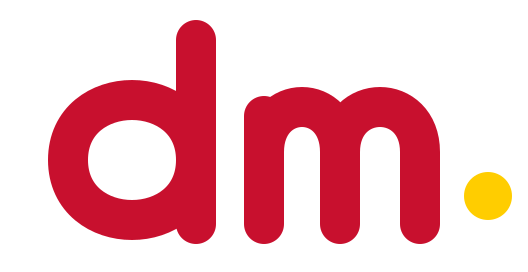
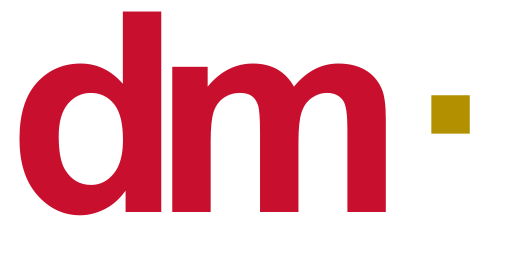
Restore original dm wordmark and keep student figures on detail pages

diff --git a/index.html b/index.html
@@ -1,7 +1,7 @@
 <!doctype html>
 <html lang="en"><head><meta charset="utf-8"><meta name="viewport" content="width=device-width,initial-scale=1"><title>Digital Mechanobiology Lab | University of Calgary</title><meta name="description" content="Imaging, computational modelling and machine learning for cancer–bone mechanobiology, spinal alignment and bone adaptation. Explore student research at the University of Calgary."><link rel="stylesheet" href="assets/site.css"><meta property="og:title" content="Digital Mechanobiology Lab"><meta property="og:description" content="Medical imaging, mechanics, and tissue response. University of Calgary · Radiology."><meta property="og:type" content="website"><link rel="icon" type="image/svg+xml" href="assets/brand/favicon.svg"><link rel="icon" type="image/png" sizes="32x32" href="assets/brand/favicon-32.png"><link rel="apple-touch-icon" sizes="180x180" href="assets/brand/apple-touch-icon.png"><meta name="theme-color" content="#c8102e"><meta property="og:image" content="https://wallematthias.github.io/digital-mechanobiology-lab/assets/brand/social-card.png"><meta name="twitter:card" content="summary_large_image"></head>
 <body><a class="skip-link" href="#main">Skip to content</a>
-<header><a class="brand" href="#home"><img class="brand-mark" src="assets/brand/dm-mark.svg" alt="" width="62" height="32" aria-hidden="true"><span>Digital Mechanobiology Lab<small>UNIVERSITY OF CALGARY · RADIOLOGY</small></span></a><nav aria-label="Main navigation"><a href="#research">Research</a><a href="#work">Software</a><a href="#publications">Publications</a><a href="#people">People</a><a href="#outreach">Outreach</a><a class="nav-join" href="#positions">Open Positions <span>↗</span></a></nav></header>
+<header><a class="brand" href="#home"><span class="mark" aria-hidden="true">dm<span>·</span></span><span>Digital Mechanobiology Lab<small>UNIVERSITY OF CALGARY · RADIOLOGY</small></span></a><nav aria-label="Main navigation"><a href="#research">Research</a><a href="#work">Software</a><a href="#publications">Publications</a><a href="#people">People</a><a href="#outreach">Outreach</a><a class="nav-join" href="#positions">Open Positions <span>↗</span></a></nav></header>
 <main id="main"><section class="hero" id="home">
 <div class="hero-copy"><p class="eyebrow"><span></span> DEPARTMENT OF RADIOLOGY · UNIVERSITY OF CALGARY</p><h1>Digital<br>Mechanobiology<br>Lab</h1><p class="lead">We combine medical imaging, computational modelling, and machine learning to study how mechanical forces shape tissue behaviour.</p><p class="sublead">Our work connects cancer–bone interactions, spinal alignment, and bone adaptation.</p><div class="actions"><a class="button red" href="#positions">Open Positions <span>↗</span></a><a class="text-link" href="#research">Explore the research ↓</a></div></div>
 <div class="hero-art"><div id="mech-field"><canvas aria-label="Interactive synthetic bone illustration, not a patient scan or solved finite element model. Move the pointer to deform the mesh; clicks accumulate strain signals and recruit cells."></canvas></div></div></section>
@@ -9,7 +9,7 @@
 <section class="section" id="research"><div class="section-heading"><p class="eyebrow">RESEARCH</p><h2>Research areas</h2><p>We study how the mechanical environment influences tissue behaviour, combining medical imaging with computational models in oncology, spinal alignment, and bone adaptation.</p></div><div class="research-grid"><article><span class="number">01</span><div class="mini-art tumor" aria-hidden="true"></div><h3><a href="research/01-cancer-bone.html">Cancer–Bone Mechanobiology</a></h3><p>Investigating how bone metastases and the mechanical environment influence one another, and how to quantify treatment response.</p><span class="tag">BONE METASTASES · ONGOING RESEARCH</span><a class="text-link card-more" href="research/01-cancer-bone.html">Research & projects ↗</a></article><article><span class="number">02</span><div class="mini-art model" aria-hidden="true"></div><h3><a href="research/02-spinal-alignment.html">Spinal Alignment &amp; Mechanobiology</a></h3><p>Studying how spinal alignment changes loading, and how those mechanical conditions relate to degeneration and tissue adaptation.</p><span class="tag">ALIGNMENT · LOADING · DEGENERATION</span><a class="text-link card-more" href="research/02-spinal-alignment.html">Research & projects ↗</a></article><article><span class="number">03</span><div class="mini-art bone" aria-hidden="true"></div><h3><a href="research/03-bone-adaptation.html">Bone Adaptation &amp; Remodelling</a></h3><p>Mapping local bone formation and resorption over time, and relating these changes to the mechanical environment.</p><span class="tag">HR-pQCT · MICRO-CT · MECHANOREGULATION</span><a class="text-link card-more" href="research/03-bone-adaptation.html">Research & projects ↗</a></article></div><div class="methods-note"><span class="eyebrow">METHODS</span><p>Medical imaging · CT, MRI, HR-pQCT and micro-CT · Finite element modelling · Machine learning and deep learning · Longitudinal analysis</p></div></section>
 <section class="section positions-section" id="positions">
 <div class="section-heading"><p class="eyebrow">JOIN THE LAB</p><h2>Open Positions</h2></div>
-<div class="project-grid opportunity-grid"><article class="project-card illustrated student-illustrated "><figure class="project-figure"><a href="assets/research/bone-metastasis-workflow.png"><img src="assets/research/bone-metastasis-workflow.png" alt="Longitudinal bone-metastasis CT workflow: baseline and follow-up scans, deep-learning segmentation, anatomy-constrained registration, deformation field, and density change." loading="lazy"></a></figure><div class="project-copy"><p class="eyebrow">Cancer–Bone Mechanobiology</p><h3><a href="opportunities/01-cancer-imaging.html">Imaging and mechanobiology of bone metastases ↗</a></h3><p>Develop imaging-based measures of treatment response and investigate how the mechanical environment relates to metastatic growth.</p><div class="skill-tags"><span>Deep learning</span><span>Radiomics</span><span>Finite element modelling</span><span>Clinical imaging</span></div><div class="project-status">MSc / PhD<br><strong>Research direction · Enquire</strong></div></div></article><article class="project-card "><div class="project-copy"><p class="eyebrow">Spinal Alignment &amp; Mechanobiology</p><h3><a href="opportunities/02-spine-learning.html">Spinal alignment, degeneration and mechanobiology ↗</a></h3><p>Combine CT, MRI and radiographs to study how spinal alignment, loading and tissue degeneration change together over time.</p><div class="skill-tags"><span>Multimodal imaging</span><span>Deep learning</span><span>Biomechanics</span><span>Longitudinal analysis</span></div><div class="project-status">MSc / PhD<br><strong>Research direction · Enquire</strong></div></div></article></div>
+<div class="project-grid opportunity-grid"><article class="project-card "><div class="project-copy"><p class="eyebrow">Cancer–Bone Mechanobiology</p><h3><a href="opportunities/01-cancer-imaging.html">Imaging and mechanobiology of bone metastases ↗</a></h3><p>Develop imaging-based measures of treatment response and investigate how the mechanical environment relates to metastatic growth.</p><div class="skill-tags"><span>Deep learning</span><span>Radiomics</span><span>Finite element modelling</span><span>Clinical imaging</span></div><div class="project-status">MSc / PhD<br><strong>Research direction · Enquire</strong></div></div></article><article class="project-card "><div class="project-copy"><p class="eyebrow">Spinal Alignment &amp; Mechanobiology</p><h3><a href="opportunities/02-spine-learning.html">Spinal alignment, degeneration and mechanobiology ↗</a></h3><p>Combine CT, MRI and radiographs to study how spinal alignment, loading and tissue degeneration change together over time.</p><div class="skill-tags"><span>Multimodal imaging</span><span>Deep learning</span><span>Biomechanics</span><span>Longitudinal analysis</span></div><div class="project-status">MSc / PhD<br><strong>Research direction · Enquire</strong></div></div></article></div>
 <div class="application-guidance">
 <div><div class="student-profile"><h3>Desired student profile</h3><p>You are curious about how tissues respond to mechanical conditions, enjoy quantitative work, and want to connect methods with biological or clinical questions.</p><p>Engineering, computer science, physics, biomedical sciences, and related backgrounds are welcome. Coding or image-analysis experience is useful, but you do not need to know every method already. I value careful work, initiative, and clear communication.</p></div><div class="application-how"><h3>How to apply</h3><p>Email a short introduction, CV, intended degree or placement, available dates, and the project you are interested in. Include a relevant project or code link if you have one.</p><a class="button red" href="mailto:matthias.walle@ucalgary.ca?subject=Student%20research%20enquiry">Email Matthias <span>↗</span></a></div></div>
 <div class="pathways"><div><h3>Graduate students</h3><p>MSc and PhD applicants from Canada and internationally are welcome. Get in touch to discuss your research interests, the relevant programme, supervision, funding, and application process.</p><a class="text-link" href="https://grad.ucalgary.ca/future-students">UCalgary graduate admissions ↗</a></div><div><h3>Undergraduate students</h3><p>We welcome enquiries about honours theses, summer research, co-op placements, and research projects for course credit. Share your interests, available dates, and any requirements from your programme.</p></div><div><h3>Visiting students</h3><p>I am happy to supervise thesis projects from international BSc and MSc students and have experience supervising students across Europe and Asia. Research stays are also welcome.</p><p>Please get in touch well in advance of your intended visit to allow enough time for visa arrangements and the visiting-student process.</p></div></div>

diff --git a/assets/site.css b/assets/site.css
@@ -1,5 +1,5 @@
 @import url('https://fonts.googleapis.com/css2?family=DM+Sans:wght@400;500;600;700&family=Manrope:wght@400;500;600;700;800&display=swap');
-.brand-mark{display:block;width:62px;height:32px;flex-shrink:0}.opportunity-grid .project-card:not(.illustrated){padding:0}.student-illustrated .project-figure{background:#000}.student-illustrated .project-figure>a{padding:10px}.student-illustrated .project-figure img{height:auto;aspect-ratio:2.6;object-fit:contain}
+.opportunity-grid .project-card:not(.illustrated){padding:0}
 :root{--red:#c8102e;--gold:#ffcd00;--ink:#262626;--muted:#686562;--paper:#fbfaf7;--line:#e4dfd7}*{box-sizing:border-box}html{scroll-behavior:smooth;scroll-padding-top:100px}body{margin:0;background:var(--paper);color:var(--ink);font-family:'DM Sans',sans-serif}a{color:inherit;text-decoration:none}header{max-width:1440px;margin:auto;display:flex;justify-content:space-between;align-items:center;gap:30px;padding:26px 5%;border-bottom:1px solid var(--line)}.brand{display:flex;gap:15px;align-items:center;font-weight:700;font-size:15px}.brand small{display:block;font-size:9px;letter-spacing:1.6px;margin-top:6px;color:var(--muted)}.mark{font-size:35px;letter-spacing:-3px;color:var(--red)}.mark span{color:#b29000}nav{display:flex;gap:30px;font-size:13px;align-items:center}nav a:hover,.text-link:hover{color:var(--red)}.nav-join{border-bottom:2px solid var(--red);padding:12px 0;font-weight:700}.nav-join span{margin-left:12px}h1,h2,h3{font-family:Manrope,sans-serif}h1{font-size:clamp(48px,5.6vw,82px);line-height:1.04;letter-spacing:-4px;font-weight:600;margin:25px 0}em{font-style:normal;color:var(--red)}p{line-height:1.65}.hero{max-width:1440px;margin:auto;position:relative;display:grid;grid-template-columns:48% 52%;min-height:720px;overflow:hidden}.hero-copy{padding:70px 0 55px 10.4%;position:relative;z-index:2}.eyebrow{font-size:10px;letter-spacing:2px;font-weight:700;margin:0 0 20px}.eyebrow span{display:inline-block;width:6px;height:6px;background:var(--red);border-radius:50%;margin-right:8px}.lead{font-size:19px;max-width:400px;color:#42403d}.sublead{font-size:14px;max-width:360px;color:var(--muted)}.actions{display:flex;align-items:center;gap:24px;flex-wrap:wrap;margin-top:30px}.button{display:inline-flex;gap:34px;align-items:center;padding:16px 21px;font-size:13px;font-weight:600;border-radius:3px;transition:transform .2s}.button:hover{transform:translateY(-2px)}.red{background:var(--red);color:#fff}.text-link{font-size:13px;font-weight:600}.launch{font-size:11px;color:var(--muted);margin-top:30px}.hero-art{position:relative;align-self:stretch;min-width:0;display:flex;align-items:center}.art-wash{position:absolute;inset:0;background:radial-gradient(ellipse at 60% 48%,#ffcd0019,transparent 60%),radial-gradient(ellipse at 60% 64%,#c8102e0b,transparent 64%)}#mech-field{position:relative;width:125%;margin-left:-12%;height:570px}#mech-field canvas{display:block;width:100%;height:100%;touch-action:none;background:transparent}.art-index{position:absolute;bottom:65px;right:10%;font-size:9px;letter-spacing:2px;color:#938b81}.discipline-strip{display:flex;align-items:center;justify-content:center;gap:45px;border-top:1px solid var(--line);border-bottom:1px solid var(--line);padding:25px;font-size:10px;letter-spacing:2px}.discipline-strip i{font-size:20px;font-style:normal;color:var(--red)}.section{max-width:1280px;margin:auto;padding:95px 5%}.section-heading{display:grid;grid-template-columns:1.2fr 1fr;gap:15px 70px;margin-bottom:48px}.section-heading .eyebrow{grid-column:1/-1}h2{font-size:clamp(32px,3.5vw,49px);line-height:1.15;letter-spacing:-1.7px;font-weight:500;margin:0 0 20px}.section-heading>p:last-child{font-size:15px;max-width:420px;color:var(--muted);margin:0}.research-grid{display:grid;grid-template-columns:repeat(3,1fr);gap:35px}.research-grid article{border-top:1px solid var(--line);position:relative;padding-top:20px}.number{font-size:11px;color:var(--red)}h3{font-size:22px;line-height:1.3;font-weight:500}.research-grid p{font-size:14px;color:var(--muted)}.tag{font-size:9px;letter-spacing:1.3px}.mini-art{height:145px;margin:5px 0 20px;opacity:.6;mask-image:radial-gradient(ellipse,#000 20%,transparent 70%)}.bone{background:repeating-radial-gradient(ellipse at 60% 50%,transparent 0 13px,#bbaa941c 14px 17px,#716d6260 18px 19px,transparent 20px 29px)}.tumor{background:radial-gradient(circle at 35% 50%,#c8102e40 0 15px,transparent 17px),radial-gradient(circle at 58% 40%,#c8102e30 0 21px,transparent 23px),radial-gradient(circle at 50% 70%,#ffcd0060 0 19px,transparent 21px),radial-gradient(circle at 73% 64%,#c8102e40 0 13px,transparent 15px)}.model{background:repeating-linear-gradient(25deg,transparent 0 17px,#76716a60 18px 19px,transparent 20px 24px),repeating-linear-gradient(155deg,transparent 0 17px,#76716a40 18px 19px,transparent 20px 24px)}.work{border-top:1px solid var(--line)}.work-list>a{display:flex;gap:30px;align-items:center;padding:25px 0;border-top:1px solid var(--line)}.work-list>a>span{font-size:11px;color:var(--red)}.work-list h3{margin:0;font-size:21px}.work-list p{margin:7px 0 0;color:var(--muted);font-size:13px}.work-list b{margin-left:auto;color:var(--red)}.recruit{max-width:none;background:var(--red);color:#fff;display:grid;grid-template-columns:1fr 1fr;gap:90px;padding:90px max(6%,calc((100vw - 1150px)/2))}.recruit em{color:var(--gold)}.recruit p{font-size:14px;max-width:450px;color:#fffdf2df}.recruit-lead{font-size:21px!important}.light{background:var(--paper);color:var(--red);margin-top:15px}.pathways>div{padding:0 0 20px;border-bottom:1px solid #ffffff40;margin-bottom:24px}.pathways h3{font-size:20px;margin:0}.pathways p{margin-bottom:0}.people{display:grid;grid-template-columns:.7fr 1fr;gap:90px;align-items:center}.portrait{position:relative;max-width:330px}.portrait img{width:100%;display:block;border-radius:3px;filter:saturate(.8)}.portrait span{position:absolute;bottom:-12px;left:20px;padding:10px 15px;background:var(--gold);font-size:9px;letter-spacing:1.7px}.people>div>p{font-size:15px;color:var(--muted)}.people h3{font-size:19px}.closing{text-align:center;padding:65px 20px 90px;border-top:1px solid var(--line);background:radial-gradient(ellipse at bottom,#ffcd0010,transparent 70%)}footer{padding:30px 5%;border-top:1px solid var(--line);display:flex;align-items:center;justify-content:space-between;gap:20px;font-size:12px}footer small{display:block;font-size:10px;color:var(--muted);margin-top:7px}.draft{font-size:10px;color:var(--muted)}
 @media(min-width:1450px){.hero-copy{padding-left:75px}}@media(max-width:900px){header{flex-wrap:wrap}nav{gap:24px}.hero{min-height:650px}.hero-copy{padding-top:50px}h1{letter-spacing:-2.5px}.hero-art{align-self:center}#mech-field{height:460px}.recruit{gap:40px}.people{gap:40px}.discipline-strip{gap:20px;font-size:9px;letter-spacing:1px}}
 @media(max-width:640px){header{padding:18px 6%}.brand{font-size:13px}nav{width:100%;justify-content:space-between;gap:12px;font-size:11px}.hero{grid-template-columns:1fr}.hero-copy{padding:40px 6% 10px}h1{font-size:55px}.hero-art{height:340px}#mech-field{height:340px;width:100%;margin:0}.art-index{bottom:20px}.discipline-strip{gap:12px;flex-wrap:wrap;padding:18px;font-size:8px}.section{padding:60px 6%}.section-heading{display:block}.section-heading>p:last-child{margin-top:20px}.research-grid{grid-template-columns:1fr}.research-grid article{display:grid;grid-template-columns:1fr 1fr;gap:0 20px}.number,.tag{grid-column:1/-1}.mini-art{grid-row:2/4;grid-column:2;margin:0}.research-grid h3{font-size:21px}.research-grid p{font-size:13px}.recruit{grid-template-columns:1fr;gap:45px}.people{grid-template-columns:1fr;gap:45px}.portrait{max-width:240px}.work-list>a{gap:16px}.work-list h3{font-size:18px}footer{flex-wrap:wrap;padding:25px 6%}}
